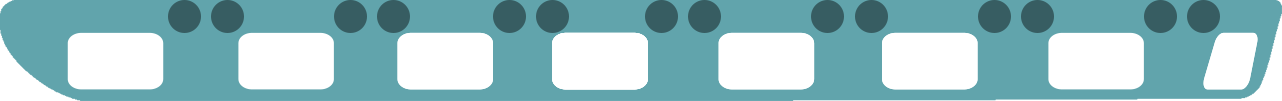
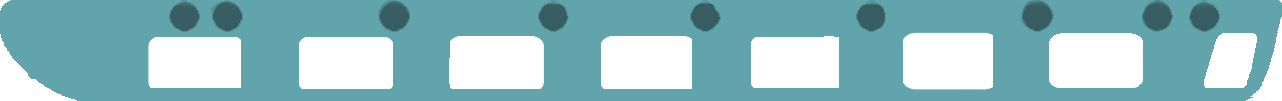
new calculations

diff --git a/index.html b/index.html
@@ -42,57 +42,118 @@ var data =
         //RectIntensity("#box1","rect",value/100);
         //RectIntensity ("#box2","circle",value/100)
         //console.log(value)
-        if(value<50){
+        //if(value<50){
           //console.log("small")
-          UpdateSvgCanvas("#box2",0)
-        }
-        else if(value>=50) {
+          //UpdateSvgCanvas("#box2",0)
+        //}
+        //else if(value>=50) {
           //console.log("big")
-          UpdateSvgCanvas("#box2",1)
-        }
+          UpdateSvgCanvas("#box2",value)
+          d3.selectAll("circle").remove();
+          UpdateInnerCir("#box2",value)
+        //}
   }));
   CreateSvgCanvas("#box2")
-  function UpdateSvgCanvas (DivID,index) {
-    var svgContainer = d3.select(DivID).append("svg")
-      for(y=0;y<4;y++){
+  function UpdateSvgCanvas (DivID,count) {
+    var max = 56;
+    if(count>max){
+      count=max;
+    }
+    value=max-count
+      for(y=0;y<1;y++){
         for(x=0;x<10;x++){
           var smallsvg = d3.select("#inner-svg-"+y+"-"+x)
-          smallsvg.selectAll("circle").remove();
-          CreateInnerRandCircles (smallsvg,data[index][y][x]);
+            .attr("y", 11+value)
+            .attr("height", 57-value);
         }
       }
   }
+  function UpdateInnerCir (DivID,count) {
+    var max = 57;
+    var dir = 1;
+    if(count>max){
+      count=max;
+    }
+      for(y=1;y<2;y++){
+        for(x=0;x<10;x++){
+          id="#inner-svg-"+y+"-"+x
+          var smallsvg = d3.select(id)
+            i=count
+            i=Math.floor(i)
+            while(i>0){
+              if(dir==1){
+                var circle = smallsvg.append("circle")
+                .attr("cx", 5)
+                .attr("cy", 5+25*i)
+                .attr("r", 10)
+                .attr("width", "100%")
+                .attr("height", "100%")
+                .style("fill", "#000")
+                .style("opacity", "0.5");
+                //console.log(5+25*i)
+              }
+              if(dir==0){
+                var circle = smallsvg.append("circle")
+                .attr("cx", 5)
+                .attr("cy", 5+35*i)
+                .attr("r", 10)
+                .attr("width", "100%")
+                .attr("height", "100%")
+                .style("fill", "#000")
+                .style("opacity", "0.5");
+              } 
+              i--;
+            }
+        }
+      }   
+  }
+
   function CreateSvgCanvas (DivID) {
     //creates a svg container that is svg
     var svgContainer = d3.select(DivID).append("svg")
-      .attr("width", 1400)
+      .attr("width", 1290)
       .attr("height", 800)
       .attr("x", 0)
       .attr("y", 0)
-      .style("background-image", "url('train_up.png')");
+      .style("background-image", "url('train_up.png')")
+      .style("background-repeat", "no-repeat")
+      .style("margin-left", "70px");
       svgContainer.append("rect")
         .attr("width", "100%")
         .attr("height", "100%")
         .style("fill", "none")
         ;
-      for(y=0;y<4;y++){
-        for(x=0;x<10;x++){
+      for(y=0;y<2;y++){
+        for(x=0;x<7;x++){
           if(y==0){
-            CreateInnverSvg(svgContainer,y+"-"+x,x*140+20,0,5);
+            CreateInnverSvg(svgContainer,y+"-"+x,x*150+138,11,59);
           }
           if(y==1){
-            CreateInnerCir(svgContainer,y+"-"+x,x*140+20,90,9,1);
+            CreateInnerCir(svgContainer,y+"-"+x,x*150+138,110,9,1);
             //create circles
-
-          }
-          if(y==2){
-            CreateInnerCir(svgContainer,y+"-"+x,x*140+20,460,5,0);
-          }
-          if(y==3){
-            CreateInnverSvg(svgContainer,y+"-"+x,x*140+20,550,5);
-          }
+           }
         }
       }
+  }
+  function CreateInnverSvg (svgContainer,id,xpos,ypos,count){
+    var max = 56;
+    if(count>max){
+      count=max;
+    }
+    value=max-count
+    var smallsvg = svgContainer.append("svg")
+      .attr("x", xpos)
+      .attr("y", ypos+value)
+      .attr("id", "inner-svg-"+id)
+      .attr("width", 96)
+      .attr("height", 57-value);
+      var rect = smallsvg.append("rect")
+        .attr("x", 0)
+        .attr("y", 0)
+        .attr("width", "100%")
+        .attr("height", "100%")
+        .style("fill", "rgb(148, 14, 62)");
+        //CreateInnerRandCircles (smallsvg,count);
   }
   function CreateInnerCir (svgContainer,id,xpos,ypos,count,dir) {
     //creates a svg container that is svg
@@ -106,7 +167,7 @@ var data =
       if(dir==1){
         var circle = smallsvg.append("circle")
         .attr("cx", 5)
-        .attr("cy", 5+35*i)
+        .attr("cy", 5+25*i)
         .attr("r", 10)
         .attr("width", "100%")
         .attr("height", "100%")
@@ -122,24 +183,8 @@ var data =
         .attr("height", "100%")
         .style("fill", "#000")
         .style("opacity", "0.5");
-      }
-          
+      } 
     }
-  }
-  function CreateInnverSvg (svgContainer,id,xpos,ypos,count){
-    var smallsvg = svgContainer.append("svg")
-      .attr("x", xpos)
-      .attr("y", ypos)
-      .attr("id", "inner-svg-"+id)
-      .attr("width", 80)
-      .attr("height", 80);
-      var rect = smallsvg.append("rect")
-        .attr("x", 0)
-        .attr("y", 0)
-        .attr("width", "100%")
-        .attr("height", "100%")
-        .style("fill", "rgb(241, 219, 212)");
-        CreateInnerRandCircles (smallsvg,count);
   }
   //count can be from 0 - infinity
   //set first range of 0-10 as opacity 0.1 and width based on count
